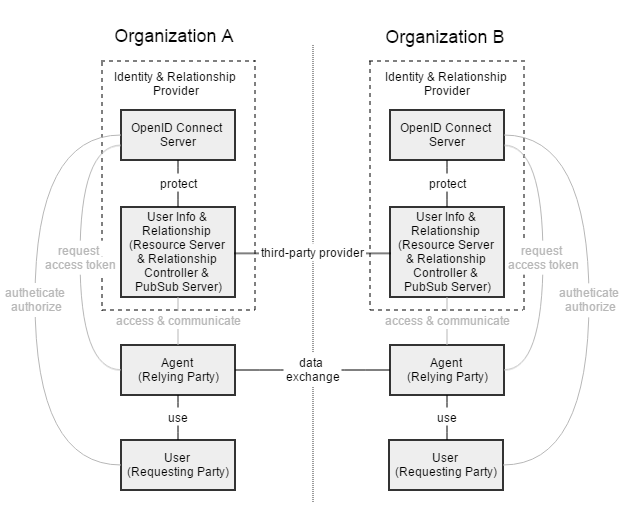
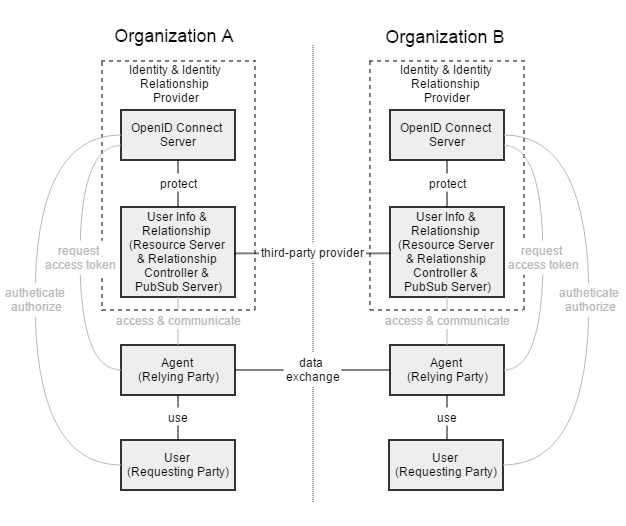
Identity & Identity Relationship Provider

Changed region(s): [[0.607, 0.1217, 0.8195, 0.2129], [0.1821, 0.1217, 0.3946, 0.2129]]

diff --git a/ibn.html b/ibn.html
@@ -76,7 +76,7 @@
 						
 						<p>
 							The IBN architecture that is built on top of the WebRTC network can be thought of as a network of trust identities.
-							The WebRTC peer-to-peer technology in combination with federated <a href="#idrp">Identity and Relationship Providers</a> creates a composite IBN architecture that meets the needs of the Internet of Everything ecosystem.
+							The WebRTC peer-to-peer technology in combination with federated <a href="#idrp">Identity and Identity Relationship Providers</a> creates a composite IBN architecture that meets the needs of the Internet of Everything ecosystem.
 						</p>
 						
 						<p>
@@ -113,7 +113,7 @@
 						</p>
 						
 						<p>
-						    The <a name="idrp">Identity and Relationship Provider</a> (IdRP) is a trusted place that, after credential validation, <a href="idp.html">issues identification information</a> and where <a href="irm.html">relationship management</a> takes place.
+						    The <a name="idrp">Identity and Identity Relationship Provider</a> (IdRP) is a trusted place that, after credential validation, <a href="idp.html">issues identification information</a> and where <a href="irm.html">relationship management</a> takes place.
 						</p>
 						
 						<p>
